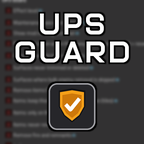
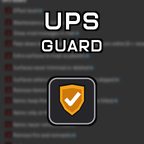
redo cover sizes, rename repo links to ups-guard

Changed region(s): [[0.0833, 0.0556, 0.9167, 0.4444], [0.3056, 0.5278, 0.6944, 0.9167]]

diff --git a/tools/make_cover.py b/tools/make_cover.py
@@ -38,11 +38,11 @@ def fit_width(text, width):
 
 
 def title_mask():
+    """Same sizes and positions as the Quality Calculator cover: a big first line (font 49) and a smaller second line (font 32)."""
     mask = Image.new("L", (W, W), 0)
     d = ImageDraw.Draw(mask)
-    # both lines share one size, so the 5 letter word fills the width and the 3 letter word sits in the middle
-    f = fit_width("GUARD", 230)
-    for text, yc in (("UPS", 48), ("GUARD", 104)):
+    for text, size, yc in (("UPS", 49, 42), ("GUARD", 32, 92)):
+        f = ImageFont.truetype(str(FONT), size)
         l, t, r, b = ink_box(text, f)
         d.text(((W - (r - l)) / 2 - (l - 50), yc - ((t + b) / 2 - 50)), text, font=f, fill=255)
     return mask
@@ -82,7 +82,7 @@ def main():
     img.paste((255, 255, 255), (0, 0), mask)
     size = 106
     tile = shield_tile(size)
-    pos = ((W - size) // 2, 160)
+    pos = ((W - size) // 2, 149)
     ring_src = Image.new("L", (W, W), 0)
     ring_src.paste(tile.getchannel("A"), pos)
     ring = ring_src.point(lambda v: 255 if v > 127 else 0).filter(ImageFilter.MaxFilter(OUTLINE)).filter(ImageFilter.GaussianBlur(0.8))

diff --git a/portal/description.md b/portal/description.md
@@ -10,7 +10,7 @@ The mod is free. If you like it, you can say thanks with a one-time donation on 
 
 Choose a level (minimal, medium, high or extreme) and you are done. Every part is also a separate setting, and one `/upg` command shows what is going on. Nothing in the mod is tied to a server or a planet name.
 
-![The mod settings](https://raw.githubusercontent.com/Clayn-dot/ups-quard/main/portal/images/IMG-01-settings.png)
+![The mod settings](https://raw.githubusercontent.com/Clayn-dot/ups-guard/main/portal/images/IMG-01-settings.png)
 
 *Mod settings: the effect level on top, every part below it as its own setting.*
 
@@ -37,11 +37,11 @@ How much you gain depends on the save: the more enemy bases, idle planets and ol
 
 The end of each pass is one card in chat. `/upg status` has the totals, and `/upg profile on` adds the time per job.
 
-![The pass card](https://raw.githubusercontent.com/Clayn-dot/ups-quard/main/portal/images/IMG-02-pass-card.png)
+![The pass card](https://raw.githubusercontent.com/Clayn-dot/ups-guard/main/portal/images/IMG-02-pass-card.png)
 
 *The card after a pass: what was removed on which planet and how many nests and enemies are left.*
 
-![The status](https://raw.githubusercontent.com/Clayn-dot/ups-quard/main/portal/images/IMG-03-status.png)
+![The status](https://raw.githubusercontent.com/Clayn-dot/ups-guard/main/portal/images/IMG-03-status.png)
 
 *`/upg status`: totals, the level, and nests and units per planet.*
 
